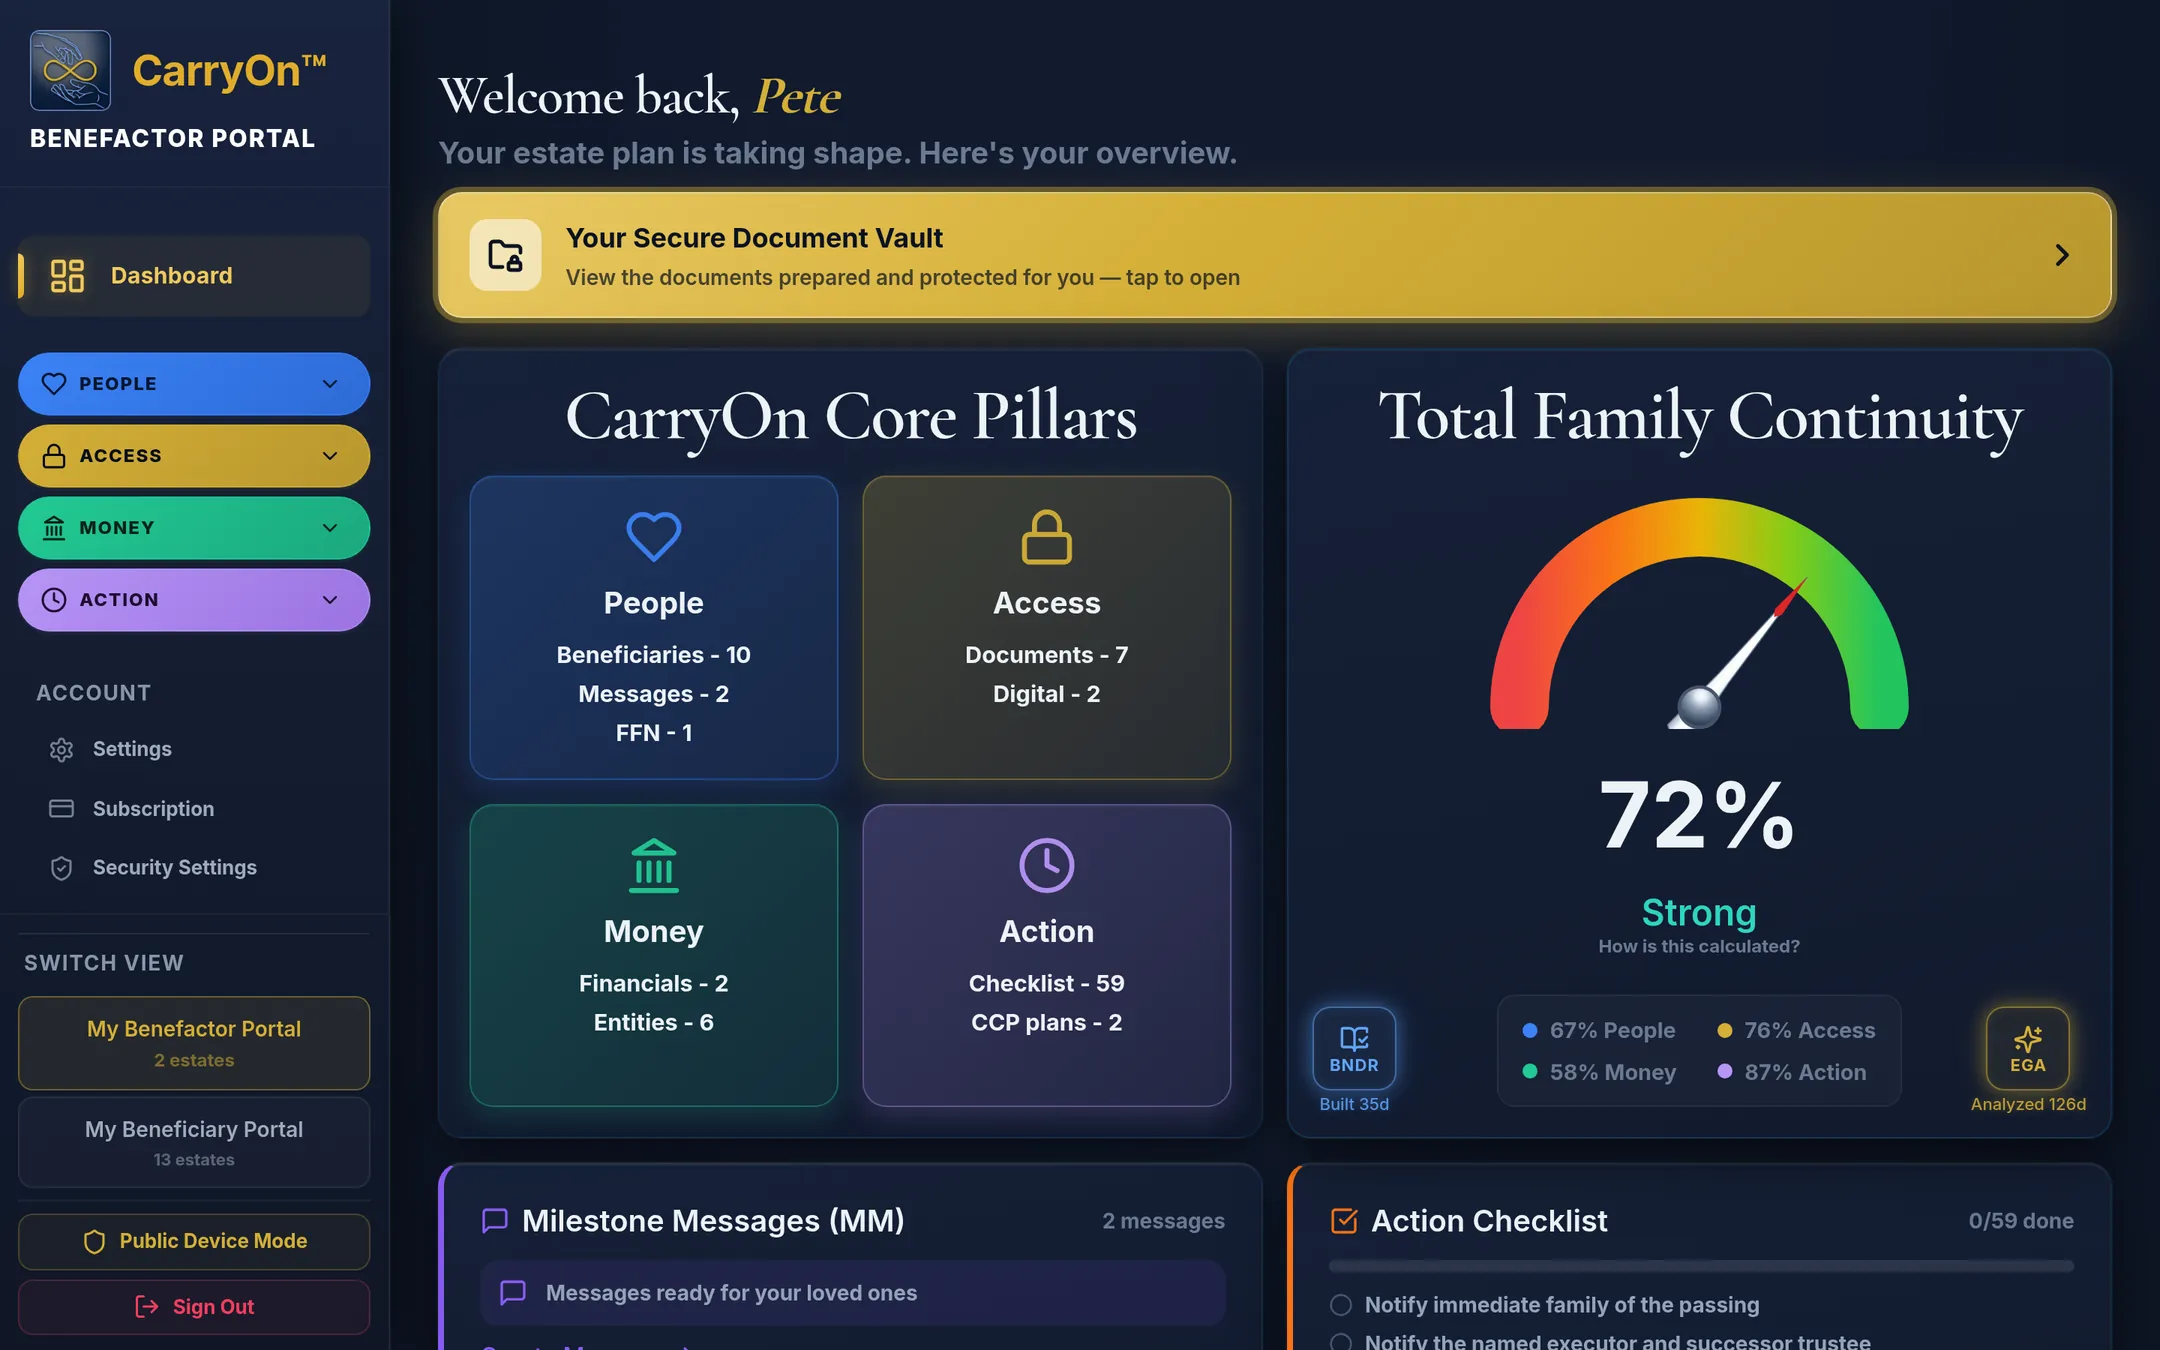
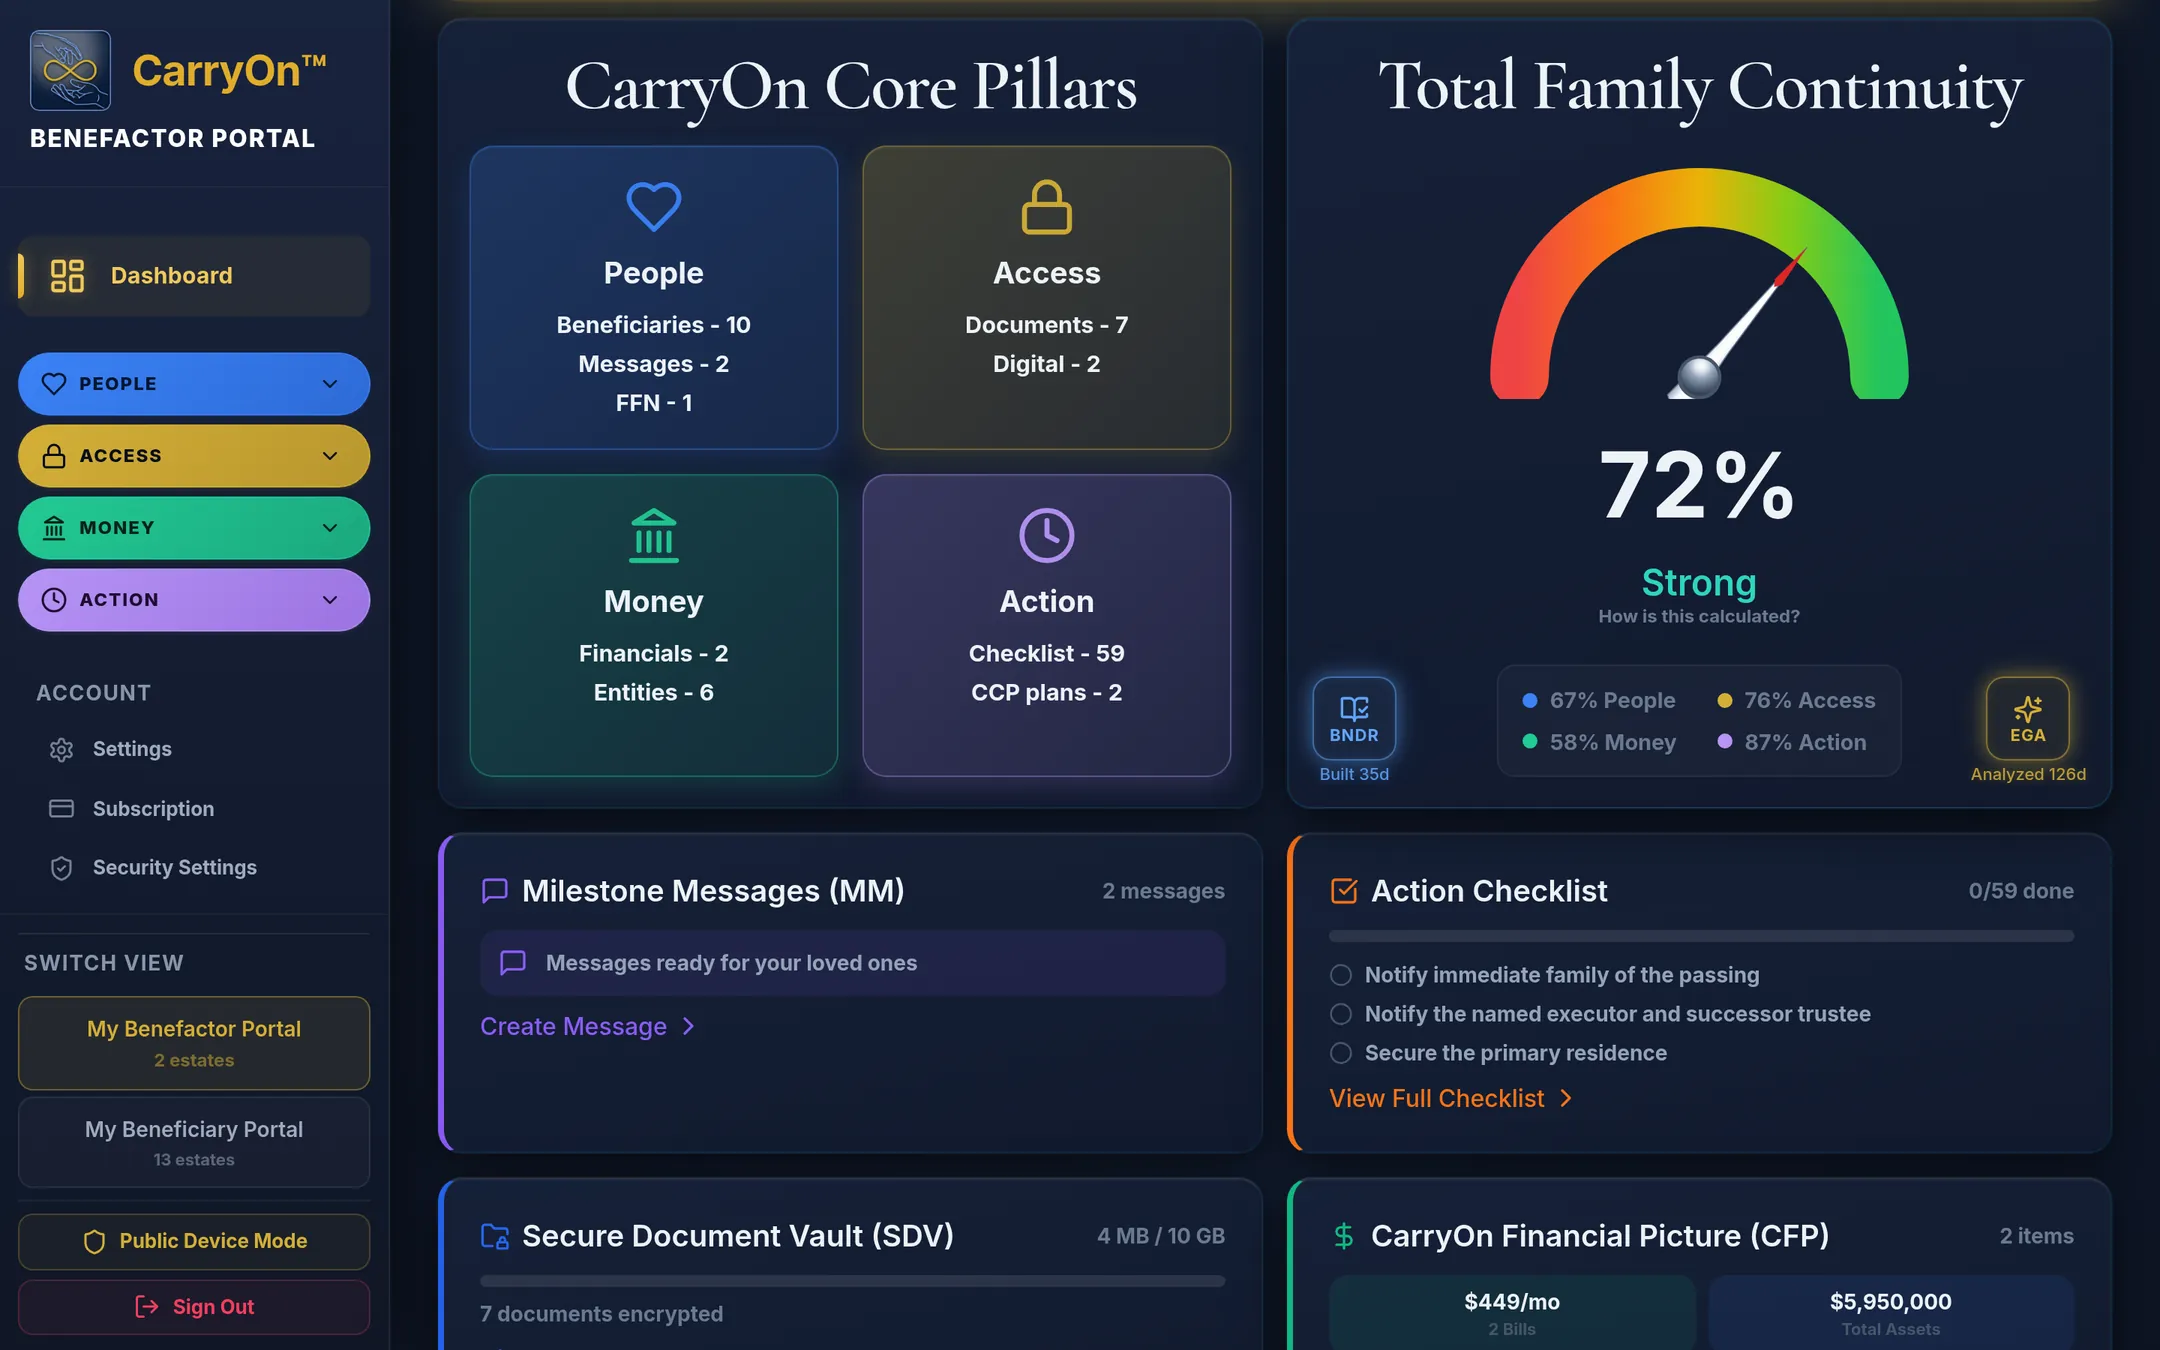
## Dashboard preview now starts at the meter (VERIFIED on preview, NOT PUSHED) - Your live homepage still shows the dual-meter pictures only because the Sep 19 re-capture hasn't been pushed yet — the new files are in this build. - Re-shot the dashboard (phone + desktop) so the frame opens exactly li
Emergent-Commit-Key: 8a3c9bc3c273f8313ba3a7d6e22cb4c5738b179556c85694b3f3368edf5c91ed

Changed region(s): [[0.1861, 0.0, 0.9926, 1.0], [0.5894, 0.4978, 0.6514, 0.5911], [0.6514, 0.5911, 0.6824, 0.6222]]

diff --git a/frontend/public/sw-push.js b/frontend/public/sw-push.js
@@ -15,7 +15,7 @@
 // ── Versioning ──────────────────────────────────────────────────────────────
 // Bump SHELL_VERSION whenever the list of precached shell assets or the
 // caching strategy changes — triggers a cache purge on next SW activation.
-const SHELL_VERSION = 'build-2026-09-19-mu8nd7tf';
+const SHELL_VERSION = 'build-2026-09-19-mu8oh8q8';
 const SHELL_CACHE = `carryon-shell-${SHELL_VERSION}`;
 const RUNTIME_CACHE = `carryon-runtime-${SHELL_VERSION}`;
 const API_CACHE = `carryon-api-${SHELL_VERSION}`;

diff --git a/scripts/capture_product_screenshots.py b/scripts/capture_product_screenshots.py
@@ -20,12 +20,39 @@ CHECKLIST_MOBILE_CSS = """@media (max-width: 639px) {
   [data-testid^="iac-item-"] > div { flex-wrap: wrap; }
   [data-testid^="iac-item-"] > div > div:last-child { width: 100%; justify-content: flex-end; padding-left: 3rem; margin-top: 0.5rem; }
 }"""
+# Dashboard: start the shot at the Total Family Continuity meter (founder directive, Sep 19 2026) —
+# the welcome line, beneficiary vault banner and onboarding group above it stay out of the preview.
+METER_SELECTORS = '[data-testid="readiness-card"], [data-testid="readiness-card-side"], [data-testid="core-pillars-card"]'
+SCROLL_TO_METER_JS = f"""(() => {{
+  const cards = [...document.querySelectorAll('{METER_SELECTORS}')].filter(e => e.offsetParent !== null);
+  if (!cards.length) return 'no meter card';
+  const el = cards.reduce((a, b) => a.getBoundingClientRect().top <= b.getBoundingClientRect().top ? a : b);
+  let scroller = el.parentElement;
+  while (scroller && scroller !== document.body) {{
+    const cs = getComputedStyle(scroller);
+    if (/(auto|scroll)/.test(cs.overflowY) && scroller.scrollHeight > scroller.clientHeight + 4) break;
+    scroller = scroller.parentElement;
+  }}
+  const useWindow = !scroller || scroller === document.body;
+  el.scrollIntoView({{ block: 'start' }});
+  let headerBottom = 0;
+  for (let n = document.elementFromPoint(window.innerWidth / 2, 4); n && n !== document.body; n = n.parentElement) {{
+    const pos = getComputedStyle(n).position;
+    if (pos === 'fixed' || pos === 'sticky') {{ headerBottom = Math.max(headerBottom, n.getBoundingClientRect().bottom); break; }}
+  }}
+  const delta = el.getBoundingClientRect().top - headerBottom - 12;
+  if (useWindow) window.scrollBy(0, delta); else scroller.scrollTop += delta;
+  return `${{el.dataset.testid}} via ${{useWindow ? 'window' : 'container'}} headerBottom=${{Math.round(headerBottom)}}`;
+}})()"""
 PAGES = [
-    ("dashboard", "/dashboard", None),
-    ("vault", "/vault", None),
-    ("contacts", "/beneficiaries", None),
-    ("checklist", "/checklist", "Critical"),
+    ("dashboard", "/dashboard", None, True),
+    ("vault", "/vault", None, False),
+    ("contacts", "/beneficiaries", None, False),
+    ("checklist", "/checklist", "Critical", False),
 ]
+ONLY = {s for s in os.environ.get("SHOT_ONLY", "").split(",") if s}
+if ONLY:
+    PAGES = [p for p in PAGES if p[0] in ONLY]
 
 os.makedirs(OUT, exist_ok=True)
 with sync_playwright() as p:
@@ -48,7 +75,7 @@ with sync_playwright() as p:
     page.wait_for_url(lambda u: "/login" not in u, timeout=60000)
     page.wait_for_timeout(2500)
     print("logged in ->", page.url, "viewport", vw, vh)
-    for name, path, click_text in PAGES:
+    for name, path, click_text, to_meter in PAGES:
         try:
             page.goto(f"{BASE}{path}", wait_until="networkidle", timeout=60000)
         except PlaywrightTimeoutError:
@@ -61,6 +88,9 @@ with sync_playwright() as p:
             page.get_by_text(click_text, exact=False).first.click()
             page.wait_for_timeout(800)
         hidden += page.evaluate(hide_js)
+        if to_meter:
+            print("scroll:", page.evaluate(SCROLL_TO_METER_JS))
+            page.wait_for_timeout(700)
         page.wait_for_timeout(500)
         out = f"{OUT}/{PREFIX}{name}.png"
         page.screenshot(path=out, full_page=False)

diff --git a/memory/CHANGELOG.md b/memory/CHANGELOG.md
@@ -4,7 +4,7 @@
 ## Sep 19, 2026 (later) — Homepage product screenshots re-captured from the live demo account — VERIFIED, NOT PUSHED
 
 - Root cause of "the screenshots aren't from my demo account": the eight `/screenshots/*.webp` files were shot on Sep 16 while carryon.us still served the old marketing-branch build (old "Estate Readiness / Financial Health" dashboard). The published product has since moved to the People / Access / Money / Action build, so the pictures no longer matched `petemitchell`.
-- Re-captured all 8 (desktop 2160×1350 + iPhone 780×1328) from `petemitchell` on carryon.us with `scripts/capture_product_screenshots.py`; script now also hides the QuickStart modal and the dashboard "Onboarding — N action items" group, and tolerates `networkidle` timeouts on `/beneficiaries` (websocket). Dashboard alt text updated (72 % Total Family Continuity). README in `public/screenshots/` records the capture date + regenerate steps. Prod demo password confirmed `Demo1234!!!` (`test_credentials.md`). check.sh ALL CLEAR.
+- Re-captured all 8 (desktop 2160×1350 + iPhone 780×1328) from `petemitchell` on carryon.us with `scripts/capture_product_screenshots.py`; script now also hides the QuickStart modal and the dashboard "Onboarding — N action items" group, and tolerates `networkidle` timeouts on `/beneficiaries` (websocket). **Dashboard shots start at the Total Family Continuity meter** (founder: "just from the meter on down") — welcome line + beneficiary vault banner scrolled out on desktop and phone; `SHOT_ONLY=` env re-shoots a single page. Dashboard alt text updated (72 % Total Family Continuity). README in `public/screenshots/` records the capture date + regenerate steps. Prod demo password confirmed `Demo1234!!!` (`test_credentials.md`). check.sh ALL CLEAR.
 
 
 ## Sep 19, 2026 — Founder story: Public / Invite-only switch + full Site Copy migration (iteration_209) — VERIFIED, NOT PUSHED

diff --git a/frontend/public/screenshots/README.md b/frontend/public/screenshots/README.md
@@ -13,12 +13,15 @@ Continuity 72%, 10 beneficiaries, 7 documents, 59-item IAC).
 | `m-dashboard.webp`, `m-vault.webp`, `m-contacts.webp`, `m-checklist.webp` | iPhone 14 390×664 @2x → 780×1328 | < 768px (phone frame) |
 
 `contacts` = `/beneficiaries` page ("Who to call first" tab). `checklist` = `/checklist` with the
-"Critical – Do Immediately" group expanded.
+"Critical – Do Immediately" group expanded. `dashboard` starts at the **Total Family Continuity
+meter** (founder directive, Sep 19 2026) — the welcome line, beneficiary vault banner and onboarding
+group above it are scrolled out of frame, on both desktop and phone.
 
 ## Regenerate (whenever the demo account or the product UI changes)
 ```bash
 SHOT_USER=petemitchell SHOT_PASS='<see /app/memory/test_credentials.md>' /opt/plugins-venv/bin/python /app/scripts/capture_product_screenshots.py
 SHOT_MODE=mobile SHOT_USER=petemitchell SHOT_PASS='…' /opt/plugins-venv/bin/python /app/scripts/capture_product_screenshots.py
+# one page only: SHOT_ONLY=dashboard (comma-separated: dashboard,vault,contacts,checklist)
 ```
 The script hides only account-specific nudges (QuickStart modal, onboarding wizard / action-item
 group, push prompt, "Section Unlocked" banners) before shooting. Nothing else is edited — keep it
